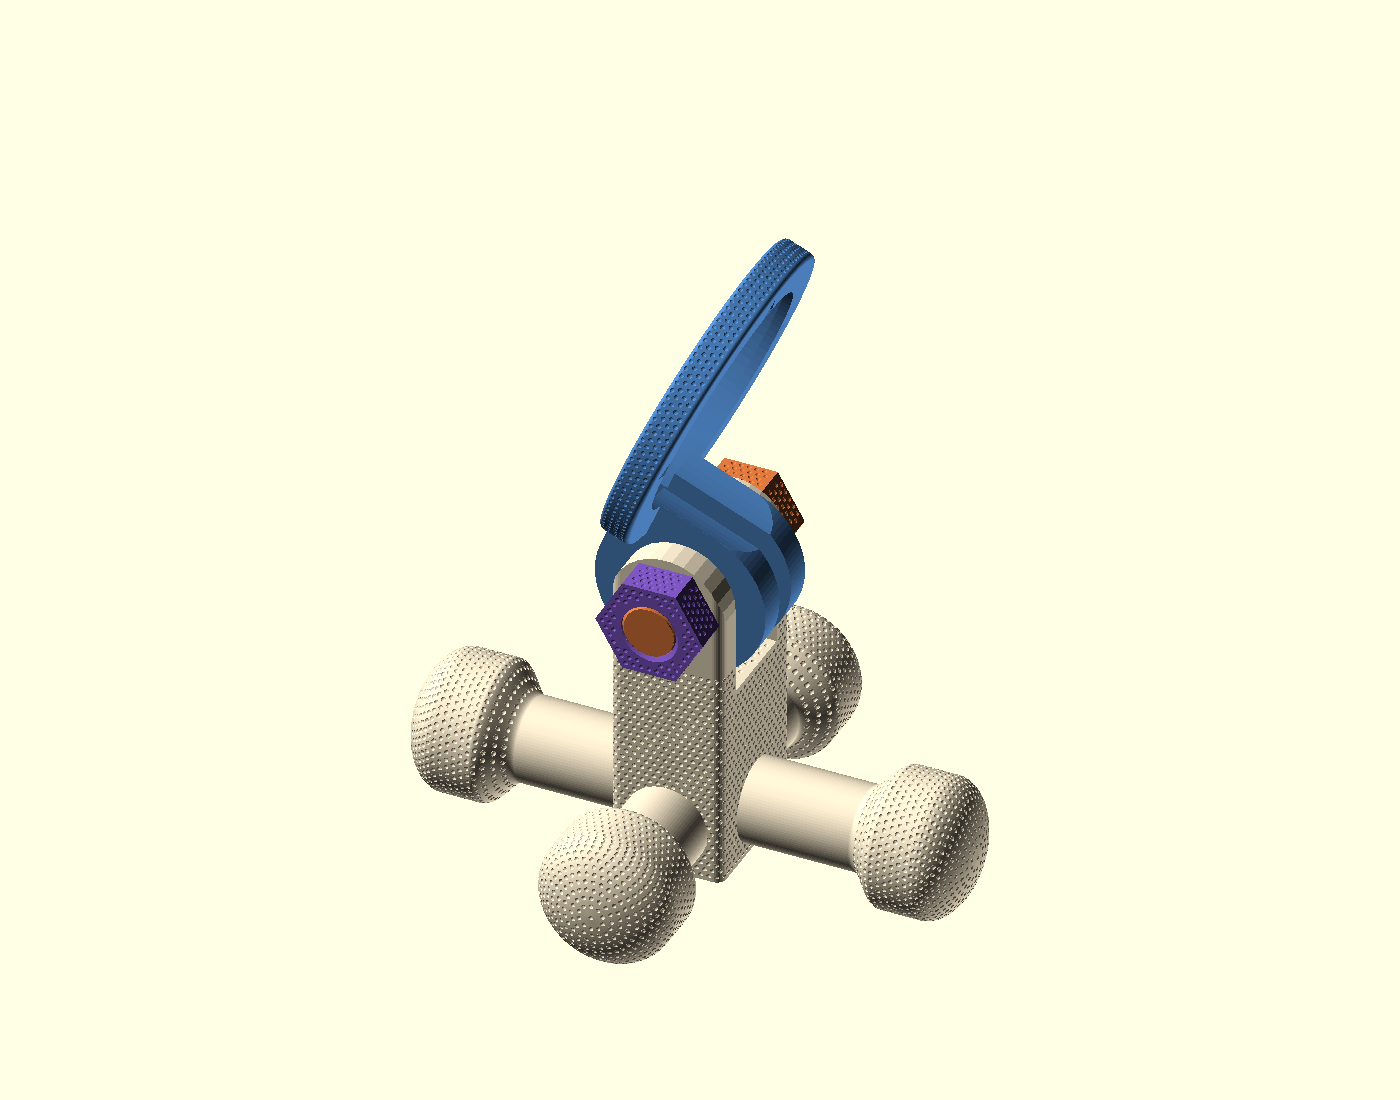
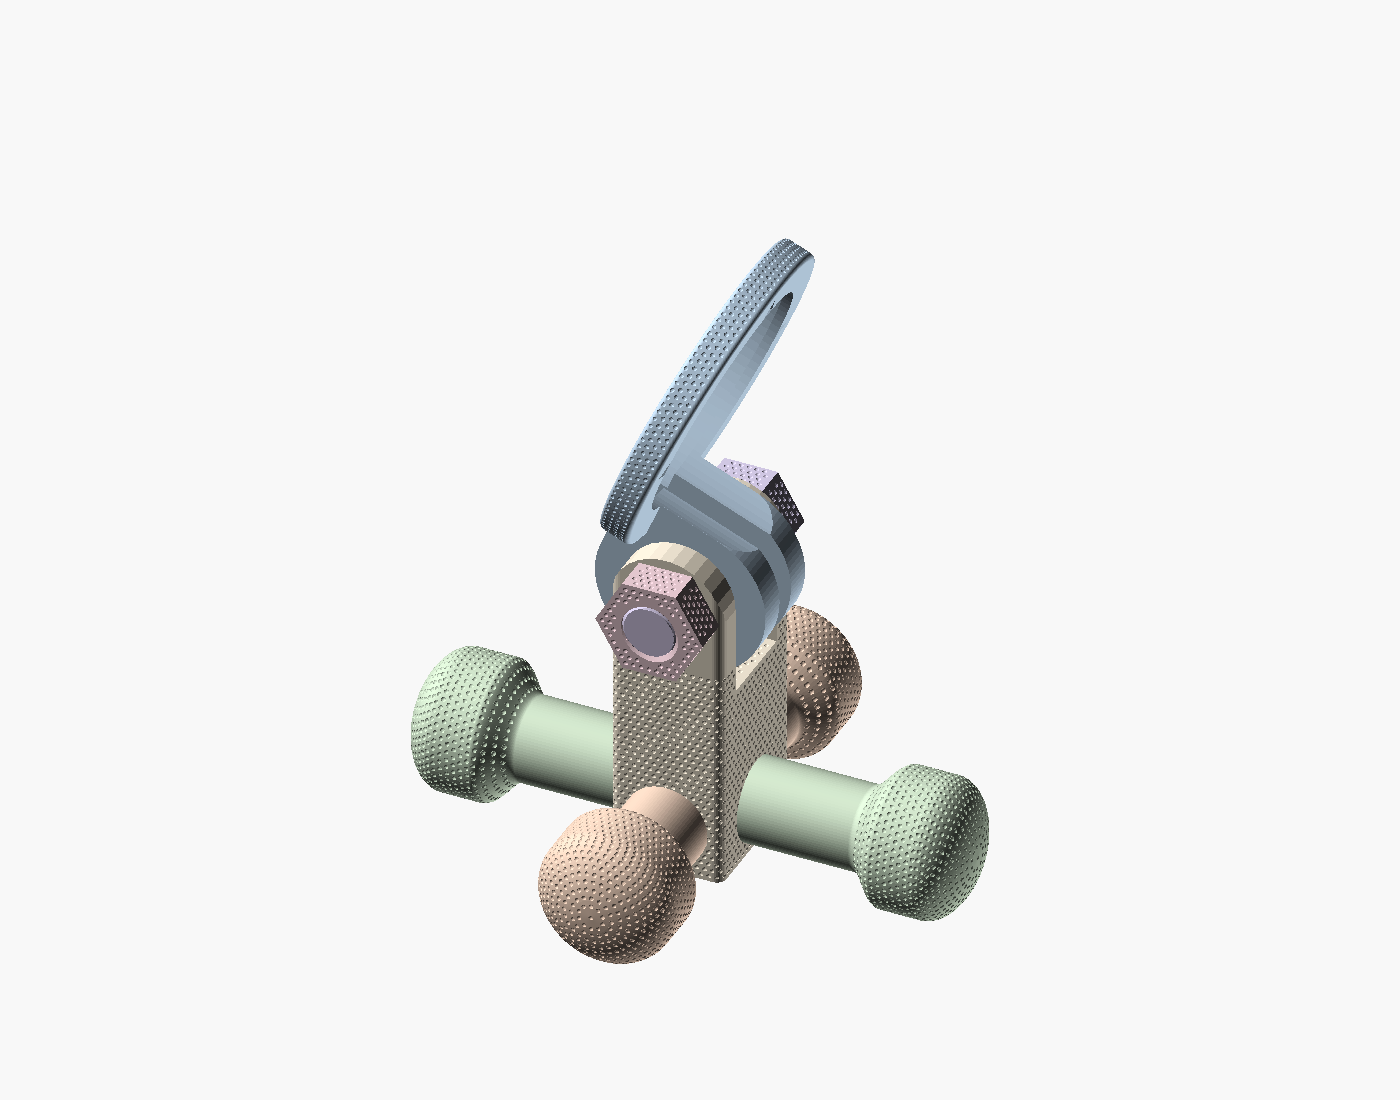
Release MagSafe Holder v0.3.2 photo and compatibility guide
Add four approved retouched photographs of the printed prototype, three charger views with caliper-based diameter and thickness annotations, and four pastel assembly renders on a neutral background. Present them in the approved order: printed holder, charger compatibility, then CAD assembly.

Document the measured Apple MagSafe Charger outside diameter of 56 mm, gray-rim thickness of 5.5 mm, and maximum overall thickness of 5.7 mm. Remove the earlier unconfirmed protrusion measurement from compatibility prose, distinguish retouched photographs from renders, and retain the fit and physical-testing limitations.

Update the model README, v0.3 release documentation, and latest-version index. Identical components share pastel colors; different component types have distinct muted colors. Preserve source geometry, all six STL files, the Bambu project and its print settings, and previous release tags.

Verification: compared all v0.3 release source files, individual STL files, and Bambu project byte-for-byte with v0.3.0; checked all eleven PNG files, eleven release-description embeds, image order, local Markdown links, and English documentation. Raw photographs and unrelated development files were excluded.

Changed region(s): [[0.3993, 0.2164, 0.5836, 0.6182], [0.2764, 0.5873, 0.4914, 0.8036], [0.5221, 0.68, 0.7064, 0.8345]]

diff --git a/models/magsafe_holder/releases/v0.3/README.md b/models/magsafe_holder/releases/v0.3/README.md
@@ -1,13 +1,15 @@
 # MagSafe Holder v0.3
 
-## Release v0.3.1
+## Release v0.3.2
 
 Released on 2026-10-30.
 
-Version 0.3.1 is a presentation-only update to v0.3.0. The GitHub release page
-now displays all four assembly renders, and each PNG is also a downloadable
-release asset. Geometry, STL files, print settings, and the Bambu project are
-unchanged from v0.3.0. These images are CAD renders, not photographs.
+Version 0.3.2 adds real printed-prototype photographs, illustrated charger
+compatibility measurements, and pastel assembly views. The image sections are
+ordered: printed holder, measured charger, then CAD assembly. Photographic
+backgrounds were retouched with AI assistance; renders are labeled separately.
+Geometry, individual STL files, OpenSCAD sources, and the Bambu project remain
+unchanged from v0.3.0. Previous releases and their tags remain available.
 
 Version 0.3 has one design, named simply **MagSafe Holder v0.3**. There is no
 Compact or Full-Height selection for this version. This self-contained snapshot
@@ -25,6 +27,59 @@ a textured domed end. The long leg extends only the smooth root of the short
 leg; both ends have identical dimensions.
 Both leg lengths belong to the same holder: two long legs run along X and two
 short legs along Y. They are not different stand-height variants.
+
+## Printed prototype
+
+Real photographs of the printed holder. Backgrounds and lighting have been
+retouched with AI assistance.
+
+| 1 · Front-left | 2 · Front-right |
+| --- | --- |
+| ![Printed holder, front-left](images/photos/stand-front-left.png) | ![Printed holder, front-right](images/photos/stand-front-right.png) |
+
+| 3 · Back-right | 4 · Back-left |
+| --- | --- |
+| ![Printed holder, back-right](images/photos/stand-back-right.png) | ![Printed holder, back-left](images/photos/stand-back-left.png) |
+
+## MagSafe compatibility — check before printing
+
+The retaining ring was physically tested with the original Apple MagSafe
+Charger shown below. Direct caliper measurements of this specific unit:
+
+- **Outside diameter: 56 mm.**
+- **Gray rim thickness: 5.5 mm.**
+- **Maximum overall thickness, including the white charging face: 5.7 mm.**
+
+The 5.7 mm value is the total thickness, not the height of the white protrusion.
+These values do not establish compatibility with every Apple revision. Compare
+your charger before printing; other revisions and third-party chargers have
+not been confirmed to fit. Compatibility refers to the charging puck, not to
+a particular iPhone model.
+
+| 1 · Front | 2 · Back |
+| --- | --- |
+| ![MagSafe front, outside diameter 56 mm](images/compatibility/charger-front-diameter.png) | ![MagSafe back, outside diameter 56 mm](images/compatibility/charger-back-diameter.png) |
+
+![3 · Side: 5.5 mm gray rim thickness; 5.7 mm maximum overall thickness](images/compatibility/charger-side-thickness.png)
+
+Photos retouched with AI assistance to remove fingers and harsh shadows.
+Dimension labels reproduce the author's caliper measurements; these are
+illustrative photographs, not scale drawings. No CAD geometry or fit parameters
+have been changed based on these documentation measurements.
+
+## Assembly views
+
+CAD renders, not photographs. Identical parts share a pastel color; different
+component types use different colors. These PNGs are also included separately
+in the release files.
+
+| Front | Back |
+| --- | --- |
+| ![Pastel assembly, front](images/assembly/front.png) | ![Pastel assembly, back](images/assembly/back.png) |
+
+| Front-left | Back-right |
+| --- | --- |
+| ![Pastel assembly, front-left](images/assembly/front-left.png) | ![Pastel assembly, back-right](images/assembly/back-right.png) |
 
 ## Files and views
 
@@ -66,18 +121,13 @@ Individual-part selectors are `"ring"`, `"support"`, `"leg_x"`, `"leg_y"`,
 `"bolt"` and `"nut"`. This release does not depend on the experimental
 `details/` tree.
 
-### Assembly images
+### Image files
 
-No CAD software is needed to view the PNG files in
-[images/assembly/](images/assembly/):
-
-| Front-left perspective | Back-right perspective |
-| --- | --- |
-| ![Assembled holder, front-left perspective](images/assembly/front-left.png) | ![Assembled holder, back-right perspective](images/assembly/back-right.png) |
-
-| Front | Back |
-| --- | --- |
-| ![Assembled holder, front view](images/assembly/front.png) | ![Assembled holder, back view](images/assembly/back.png) |
+The galleries above use files under [images/photos/](images/photos/),
+[images/compatibility/](images/compatibility/), and
+[images/assembly/](images/assembly/). Individual PNGs are also attached to the
+GitHub release. Pastel colors distinguish component types, not required print
+colors; identical components share a color.
 
 ## Bill of materials and print strength
 

diff --git a/models/magsafe_holder/README.md b/models/magsafe_holder/README.md
@@ -2,9 +2,9 @@
 
 ## Version 0.3
 
-The latest patch is [v0.3.1](https://github.com/domyshev/3d-models/releases/tag/v0.3.1),
-which adds all four assembly renders directly to the release page and its
-downloads. Printable files and print settings are unchanged from v0.3.0.
+The latest patch is [v0.3.2](https://github.com/domyshev/3d-models/releases/tag/v0.3.2),
+which adds real prototype photos, illustrated MagSafe dimensions, and pastel
+assembly views. Printable files and print settings are unchanged from v0.3.0.
 
 Version 0.3 is a single eight-piece design, named simply **MagSafe Holder v0.3**.
 It has no Compact or Full-Height selection. The two long and two short legs
@@ -19,6 +19,35 @@ infill settings and testing notes. The design and core components have been
 physically tested, including a reprint of the latest textured ring. Not every
 minor surface revision has been reprinted; the optimized infill profile has
 been checked by slicing but has not yet been physically load-tested.
+
+## Printed prototype — v0.3
+
+| Front-left | Front-right |
+| --- | --- |
+| ![Printed holder, front-left](releases/v0.3/images/photos/stand-front-left.png) | ![Printed holder, front-right](releases/v0.3/images/photos/stand-front-right.png) |
+
+| Back-right | Back-left |
+| --- | --- |
+| ![Printed holder, back-right](releases/v0.3/images/photos/stand-back-right.png) | ![Printed holder, back-left](releases/v0.3/images/photos/stand-back-left.png) |
+
+These are real photographs with AI-assisted background and lighting cleanup.
+
+## Apple MagSafe compatibility — check before printing
+
+The ring was physically tested with the original Apple MagSafe Charger shown in
+the [illustrated measurements](releases/v0.3/README.md#magsafe-compatibility--check-before-printing).
+Direct caliper measurements of this unit are:
+
+- **Outside diameter: 56 mm.**
+- **Gray rim thickness: 5.5 mm.**
+- **Maximum overall thickness including the white charging face: 5.7 mm.**
+
+The maximum thickness is not the height of the white protrusion. These dimensions
+apply to the measured unit, not every Apple revision. Measure your charger before
+printing: other revisions and third-party chargers are not confirmed to fit.
+This is compatibility with the charger, not a specific iPhone model.
+Charger photos and caliper-based annotations appear before the
+[pastel assembly views](releases/v0.3/README.md#assembly-views) in the release notes.
 
 The following sections document the released v0.2 configurations.
 
@@ -141,19 +170,6 @@ centered M12 threaded socket and presents a complete flat face to the table.
 | Front view | Rear view | Retaining ring without MagSafe |
 | --- | --- | --- |
 | ![Front view of the assembled Full-Height MagSafe holder](images/full-height/front.png) | ![Rear view of the assembled Full-Height MagSafe holder](images/full-height/rear.png) | ![Full-Height MagSafe holder with the charger removed](images/full-height/empty-clamp.png) |
-
-## Apple MagSafe compatibility
-
-The official Apple MagSafe Charger was measured with calipers:
-
-- outer diameter: **56 mm**;
-- axial edge thickness: **5.5 mm**;
-- the central magnetic surface protrudes approximately **0.8 mm** beyond the
-  edge;
-- working holder pocket depth: **4.7 mm**.
-
-Measure other charger revisions before printing. Even a small dimensional
-difference can noticeably change the clamping force.
 
 ## Release files
 

diff --git a/README.md b/README.md
@@ -10,7 +10,7 @@ notices.
 - [Modular MagSafe Holder](models/magsafe_holder/README.md) — a tested,
   adjustable desktop holder for the official Apple MagSafe Charger, built as
   a modular OpenSCAD construction system.
-  [Latest release: v0.3.1](models/magsafe_holder/releases/v0.3/README.md) combines
+  [Latest release: v0.3.2](models/magsafe_holder/releases/v0.3/README.md) combines
   one eight-piece design with textured surfaces and locally reinforced infill.
 
 ## Component library
